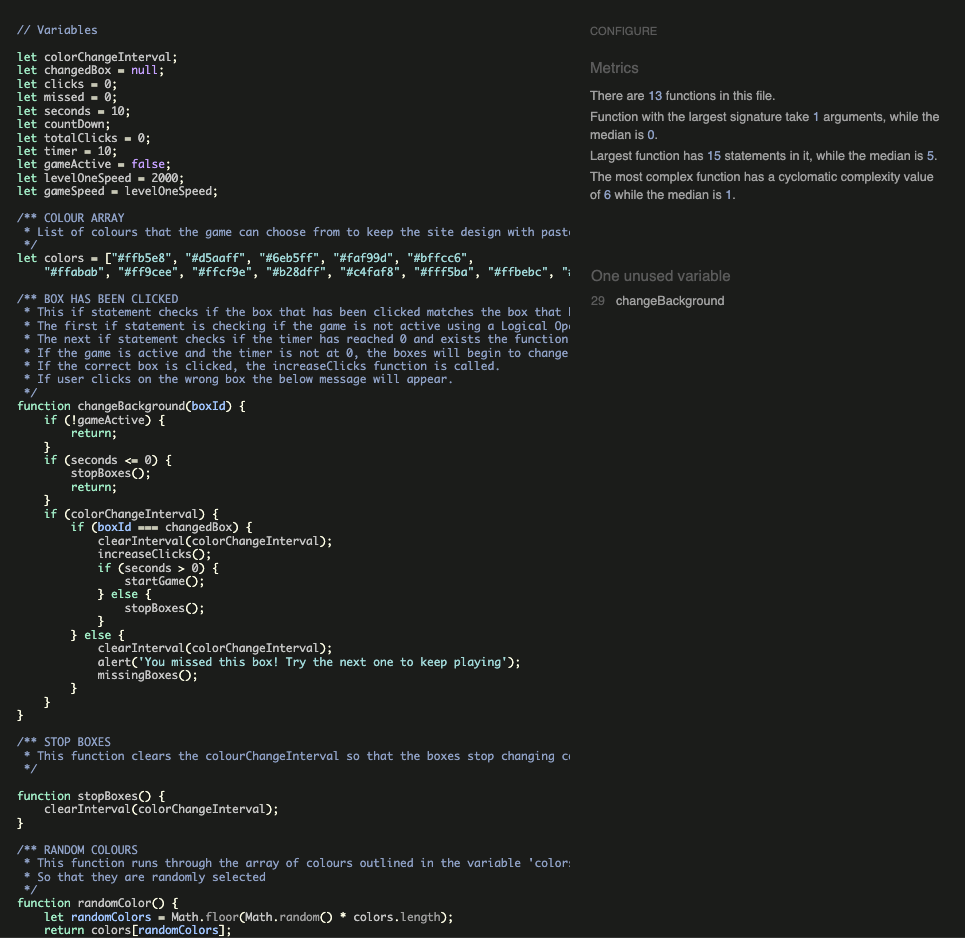
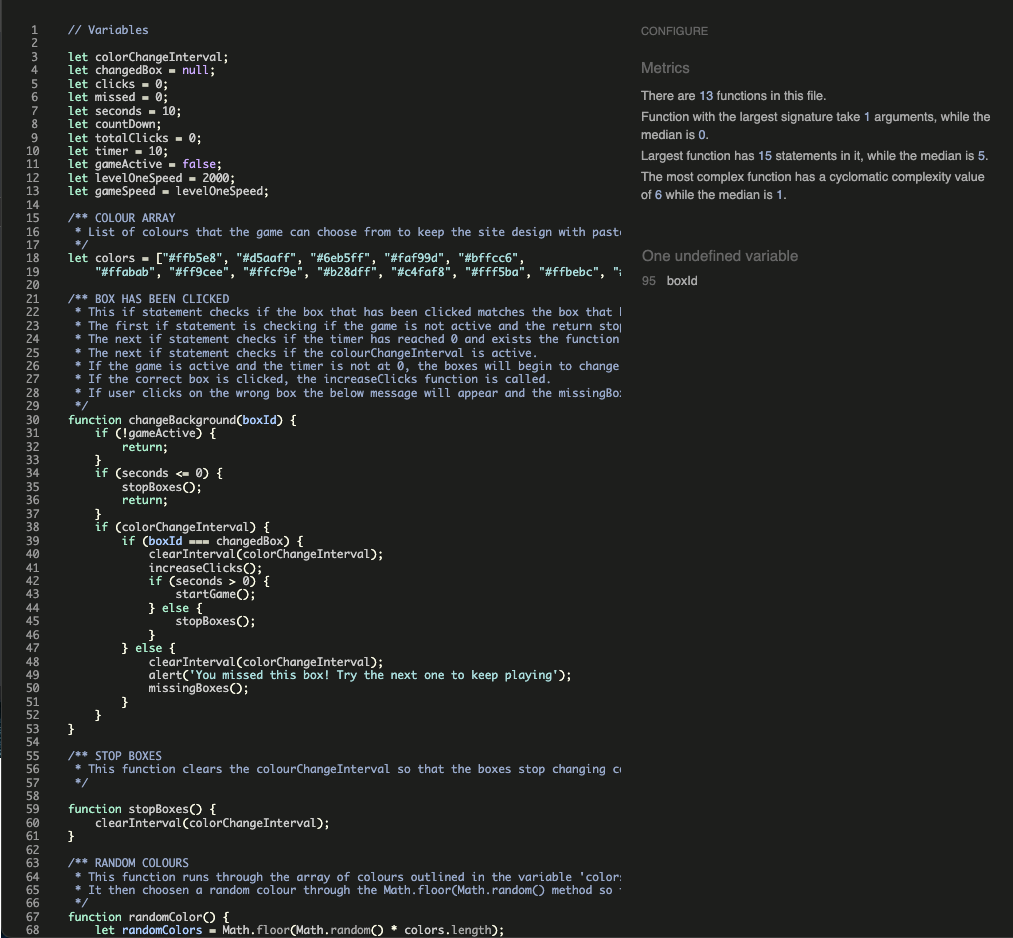
README: add new js-hint image

Changed region(s): [[0.0, 0.0309, 0.6218, 1.0], [0.6218, 0.0309, 0.9637, 0.2164], [0.6218, 0.2473, 0.7772, 0.3401]]

diff --git a/README.md b/README.md
@@ -356,7 +356,7 @@ The ColourChange Challenge site was tested on the following devices:
 <details>
 <summary>Javascript - Please see screenshot of JS Hint validator</summary>
 
-1 warning, changeBackground unused variable - this function is where the clicks and alerts come from so function is being used as expected.
+boxId undefined - being used in the changeBackground function to confirm if the box clicked is the correct box.
 
 ![CSS Validator](assets/images/readme-images/js-hint.png "JS valid image")
 
